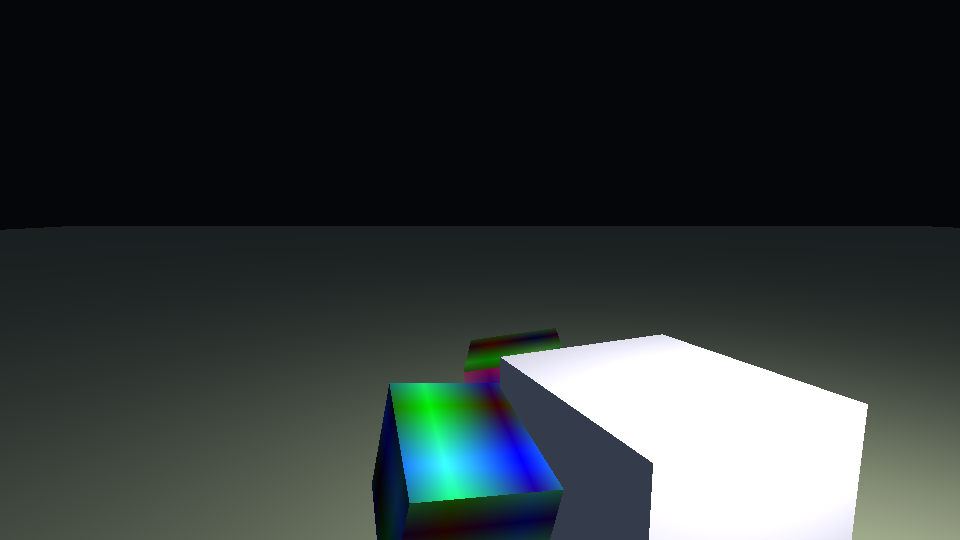
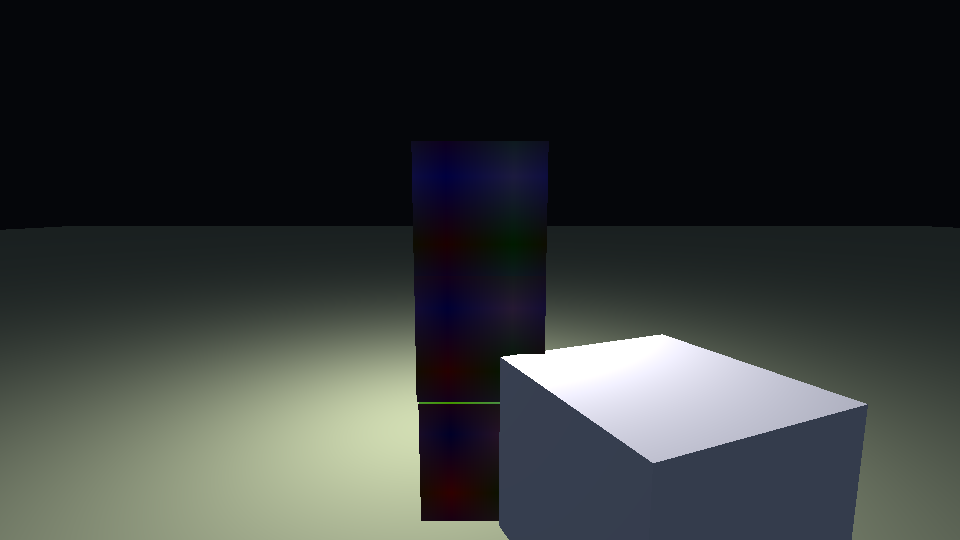
docs: physics sleeping/stability and stable stack preview

diff --git a/engine/README.md b/engine/README.md
@@ -70,7 +70,9 @@ engine/
   `physics.e7` from the player capsule; the fixed step integrates quaternion
   orientation with rotated world inverse inertia, uses OBB SAT/oriented-capsule
   manifolds and corner contact points, and applies high Coulomb friction
-  (μ=0.9/1.15) so boxes tip and stop sliding. It then follows the player with
+  (μ=0.9/1.15) so boxes tip and stop sliding. Supported bodies sleep after
+  0.35 s below velocity thresholds with resting-contact damping, so the starting
+  stack stays upright. It then follows the player with
   the first-person Camera eye. Pickup picks the nearest body (deterministic
   body-id tie-break). Rendering uses full X/Y/Z Euler orientation, so contact
   torques are visible. `render_scene` reads the Camera row, then submits

diff --git a/README.md b/README.md
@@ -558,7 +558,7 @@ a minimal JIT usage example.
 
 ## Verification
 
-`zig build test` runs 345 tests: scheduler 8, compiler 204, runtime 110,
+`zig build test` runs 346 tests: scheduler 8, compiler 204, runtime 111,
 transpiler 20.
 
 - scheduler: LAPACK solve/eigen checks, L-BFGS quadratic and Rosenbrock
